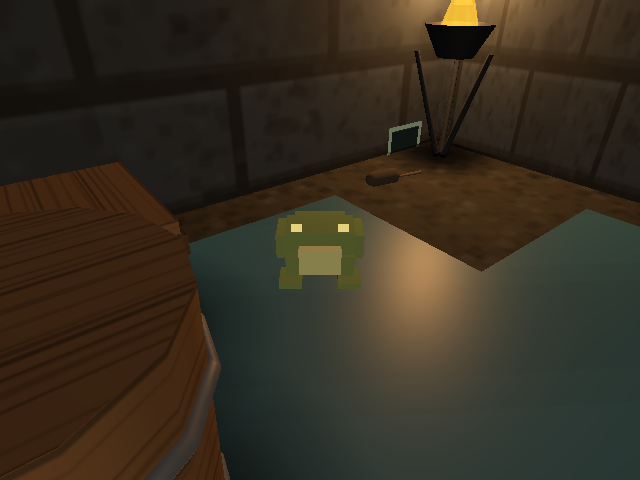
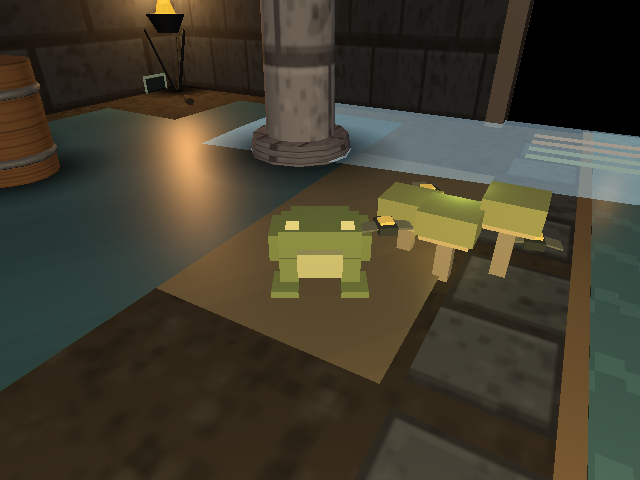
Set frogs on connected silt-bank habitat

diff --git a/src/game/mobs/croakerHabitat.ts b/src/game/mobs/croakerHabitat.ts
@@ -2,7 +2,7 @@ import type { Room } from "../dungeon/types";
 import { insideRoom, roomSegmentClear } from "../dungeon/footprint";
 import { placementsFor } from "../rooms/placements";
 import { PROP_SPECS } from "../props/specs";
-import { watercourseBlocks, WATER_DRAIN_SECONDS } from "../worldbuilding/watercourse";
+import { WATER_DRAIN_SECONDS } from "../worldbuilding/watercourse";
 import type { Spot } from "./ambient";
 import { terrainFor } from "../rooms/terrainPattern";
 
@@ -17,13 +17,14 @@ export function croakerMigration(openedAt: number | null, now: number): number {
  * existing damp wall refuge when it drains. A blocked route keeps the original
  * habitat; a creature never jumps through furniture to satisfy an art pattern. */
 export function croakerHabitats(room: Room, spots: Spot[], seed: number): CroakerHabitat[] {
-  const channels = watercourseBlocks(room);
   const obstacles = placementsFor(room, seed).filter(p => PROP_SPECS[p.kind].solid);
   const used: Spot[] = [];
   const sheltered: Spot[] = [];
   const terrain = terrainFor(room);
+  const banks = terrain.deposits.filter(tile => tile.bank && !tile.slope?.some(slope => Math.abs(slope) > 1e-6))
+    .map(tile => ({ x: tile.position[0], z: tile.position[2] }));
   const beds = ["flooded", "mossy", "fungal"].includes(terrain.biome) ? terrain.deposits
-    .filter(tile => !tile.slope?.some(slope => Math.abs(slope) > 1e-6))
+    .filter(tile => !tile.bank && !tile.slope?.some(slope => Math.abs(slope) > 1e-6))
     .map(tile => ({ x: tile.position[0], z: tile.position[2] })) : [];
   return spots.map(original => {
     const safeBeds = beds.filter(bed => insideRoom(room, bed.x, bed.z, 0.45) &&
@@ -33,21 +34,14 @@ export function croakerHabitats(room: Room, spots: Spot[], seed: number): Croake
     const refuge = safeBeds[0] ?? original;
     sheltered.push(refuge);
     const candidates: Spot[] = [];
-    for (const channel of channels) {
-      const horizontal = channel.size[0] > channel.size[2];
-      for (const sign of [-1, 1]) {
-        const length = horizontal ? channel.size[0] : channel.size[2];
-        const center = horizontal ? channel.position[0] : channel.position[2];
-        const along = Math.max(center - length / 2 + 1, Math.min(center + length / 2 - 1, horizontal ? refuge.x : refuge.z));
-        const wet = horizontal ? { x: along, z: sign * 0.65 } : { x: sign * 0.65, z: along };
-        if (!insideRoom(room, wet.x, wet.z, 0.45) || !roomSegmentClear(room, wet.x, wet.z, refuge.x, refuge.z, 0.45)) continue;
-        const dx = refuge.x - wet.x, dz = refuge.z - wet.z, len2 = dx * dx + dz * dz;
-        if (obstacles.some(p => {
-          const t = len2 ? Math.max(0, Math.min(1, ((p.x - wet.x) * dx + (p.z - wet.z) * dz) / len2)) : 0;
-          return Math.hypot(p.x - wet.x - t * dx, p.z - wet.z - t * dz) < PROP_SPECS[p.kind].radius * (p.scale ?? 1) + 0.45;
-        }) || used.some(p => Math.hypot(p.x - wet.x, p.z - wet.z) < 0.8)) continue;
-        candidates.push(wet);
-      }
+    for (const wet of banks) {
+      if (!insideRoom(room, wet.x, wet.z, 0.45) || !roomSegmentClear(room, wet.x, wet.z, refuge.x, refuge.z, 0.45)) continue;
+      const dx = refuge.x - wet.x, dz = refuge.z - wet.z, len2 = dx * dx + dz * dz;
+      if (obstacles.some(p => {
+        const t = len2 ? Math.max(0, Math.min(1, ((p.x - wet.x) * dx + (p.z - wet.z) * dz) / len2)) : 0;
+        return Math.hypot(p.x - wet.x - t * dx, p.z - wet.z - t * dz) < PROP_SPECS[p.kind].radius * (p.scale ?? 1) + 0.45;
+      }) || used.some(p => Math.hypot(p.x - wet.x, p.z - wet.z) < 0.8)) continue;
+      candidates.push(wet);
     }
     candidates.sort((a, b) => Math.hypot(a.x - refuge.x, a.z - refuge.z) - Math.hypot(b.x - refuge.x, b.z - refuge.z));
     const wet = candidates[0] ?? refuge;

diff --git a/src/editor/WorldAtlas.tsx b/src/editor/WorldAtlas.tsx
@@ -422,6 +422,9 @@ export function WorldAtlas() {
         {lighting && <p style={small}>{lamps.length} hanging passage {lamps.length === 1 ? "lamp" : "lamps"} · gold diamonds show fixtures; spacing follows passage length. Arrows follow the current; dashed arrows remain as marks after drainage.</p>}
         <GallerySection room={room} probe={{ x: probeX, z: probeZ }} onProbe={moveProbe} />
         {ecology && <p style={small}>Green dots: toads · dotted paths: clear retreat routes · tan brackets: rat shelters · pale squares: bellcaps · violet diamonds: shardbacks · orange lizards: kiln newts · pale hexagons: brine crabs · green split shells: copperbacks · amber wicks: wicklings · dashed rings: raised-lantern range; walls still block exposure. This preview changes the diagram only.</p>}
+        {ecology && habitats.some(home => home.followsChannel) && <p style={small}>
+          {habitats.filter(home => home.followsChannel).length} toad{habitats.filter(home => home.followsChannel).length === 1 ? "" : "s"} feed on the visible silt banks and retreat to separate damp refuges when the channel drains.
+        </p>}
         {colonies.length > 0 && <p style={small}>{colonies.length} bellcap {colonies.length === 1 ? "colony" : "colonies"} on this channel bank. {dormant
           ? "Draining collapses the caps and prevents further spore bursts."
           : `Lower the lantern one band or retreat during the ${BELLCAP_WARNING}-second warning. Bursts carry sound through the room graph; recovery lasts ${BELLCAP_COOLDOWN} seconds.`}</p>}

diff --git a/src/game/mobs/ambient.ts b/src/game/mobs/ambient.ts
@@ -95,7 +95,11 @@ export function roostFor(room: Room, seed: number): Spot | null {
  */
 export function croakersFor(room: Room, seed: number): Spot[] {
   if (!RAT_KINDS.has(room.kind)) return [];
-  if (!livesHere("croaker", room, seed)) return [];
+  // Rootwater's moss becomes a wet feeding ground where the actual
+  // watercourse cuts it. Dry moss elsewhere keeps its beetle ecology.
+  const bankColony = room.waterway && room.district === "gardens" &&
+    biomeIdFor(room.kind, room.id, seed, room) === "mossy";
+  if (!livesHere("croaker", room, seed) && !bankColony) return [];
   const rng = createRng(`${seed}:${room.id}:croakers`);
   const count = 2 + Math.floor(rng() * 3);
   const solid = placementsFor(room, seed).filter((p) => PROP_SPECS[p.kind].solid);

diff --git a/src/game/mobs/Croakers.tsx b/src/game/mobs/Croakers.tsx
@@ -157,8 +157,9 @@ export function Croakers({ room, spots, seed }: { room: Room; spots: Spot[]; see
           }}
           position={[s.x, floorHeightAt(room, s.x, s.z) + 0.045, s.z]}
           rotation={[0, Math.atan2(-s.x, -s.z), 0]}
+          scale={1.16}
         >
-          <mesh geometry={geo("croaker")} material={mat({ color: "#70894d", roughness: 1 })} />
+          <mesh geometry={geo("croaker")} material={mat({ color: "#849b58", roughness: 1 })} />
           <group ref={el => { throats.current[i] = el; }} position={[0, .16, .245]}>
             <mesh scale={[.23, .14, .09]} geometry={geo("box", 1, 1, 1)} material={mat({ color: "#c5ce91", roughness: 1 })} />
           </group>

diff --git a/docs/PERFORMANCE.md b/docs/PERFORMANCE.md
@@ -26,13 +26,13 @@ broad slowdown.
 
 The recorded pre-strata baseline across the fixed 78-room corpus is 78 draw
 calls, 7,208 visible triangles, 87 live geometries and 10 live textures. The
-latest run peaks at 79 calls, 7,248 triangles, 87 geometries and 10 textures.
+latest run peaks at 79 calls, 7,248 triangles, 93 geometries and 10 textures.
 The previous sweeps reached 79 calls and 7,352 triangles, or 85 calls and
 7,400 triangles, as the active Warden shifted through sampled rooms; all are
 within budget. Geological and district border marks share one batch, and the
 new channel banks use terrain's existing deposit instance draw with per-cell
 color. Threshold approach sounds add no scene geometry or held audio voice.
-Ten repeated room laps showed no geometry growth, and the 574-frame sprint
+Ten repeated room laps showed no geometry growth, and the 613-frame sprint
 sample retained no heap after
 collection. The conservative 85-call observation leaves 11 calls of
 hard-budget headroom. New ecology should keep using fixed
@@ -59,6 +59,7 @@ comparable across that environment.
 | District border handovers | Stable | Four shallow pigment cuts below each real named lintel join the same strata instance batch. Native review shows both districts from inside a border room at 26 calls and 1,830 triangles; the full corpus peaks at 85 calls and 7,400 triangles. |
 | Threshold approach sounds | Stable | One room-level watcher uses short procedural cues only at real district or material boundaries. The 78-room sweep peaks at 79 calls, 7,352 triangles, 87 geometries and 10 textures; ten laps show no geometry growth, a 612-frame sprint retains no heap, and 20,000 held-audio updates retain one voice with zero bytes per update. |
 | Watercourse silt banks | Stable | Existing terrain deposit instances carry district sediment colors alongside real waterway strips through shaped chambers and passage arms. The isolated 78-room sweep peaks at 79 calls, 7,248 triangles, 87 geometries and 10 textures; ten repeated laps add no geometry, the 574-frame sprint retains no heap, and 20,000 held-audio updates retain one voice with zero bytes per update. |
+| Silt-bank frogs | Stable | Rootwater moss gains frogs only on real watercourse banks, and migrating frogs use rendered bank cells with clear refuge routes. Scaling the shared body changes no mesh count. The latest fixed sweep peaks at 79 calls, 7,248 triangles, 93 live geometries and 10 textures; ten revisits add none, a 613-frame sprint retains no heap, and 20,000 held-audio updates retain one voice with zero bytes per update. The geometry peak varies with sampled live scene state, so keep watching its 112 budget. |
 | Salt-pan biome | Stable | The eleventh terrain and crown variant reuses the two terrain and three architecture batches. Twelve paused-clock flakes share one extra instance draw; a furnished circular fixture uses 51 calls and the corpus peak remains 78. |
 | Salt-pan ecology | Stable | Up to four brine crabs share two instance batches. The 360-floor audit finds 513 legal homes and 35 real cracked-wall retreats; the corpus peak remains 78 calls and 7,256 triangles. |
 | Paired gallery transepts | Stable | Raised wings, ramps and terminal stations reuse the terrain surface and three architecture batches. District answers reuse one lamp and the three bounded reflection taps, with no looping voice or added node. The 360-floor audit finds 853 stations, 87 paired rooms and 21 secret-host transepts; the corpus peak remains 78 calls. |

diff --git a/docs/WORLD_EXPANSION.md b/docs/WORLD_EXPANSION.md
@@ -1297,3 +1297,19 @@ The isolated 78-room performance sweep peaks at 79 calls, 7,248 triangles,
 87 geometries and 10 textures; ten revisited rooms add no geometry, a
 574-frame sprint retains 0.00 MB after collection, and 20,000 held-audio
 updates retain one voice with zero bytes per update.
+
+Toads now use those banks as real feeding ground. Their former fixed offset
+from a channel could leave them hovering beside the newly drawn silt; each
+feeding point now lands on a rendered bank cell with a clear route back to an
+independent damp refuge. Rootwater moss rooms gain frogs only where the
+generated watercourse actually passes, while ordinary dry moss retains its
+beetle ecology. The frog's block-cut body is slightly broader and lighter in
+the room's practical light. Across the 360-floor audit, 818 toads have clear
+channel-to-refuge routes, including 62 new moss-bank feeders. Native browser
+checks confirm gathering, drainage retreat, pause, revisit and dry silence;
+the creature render sweep confirms all 17 types contribute visible pixels,
+with the frog changing 7,735 pixels at standing eye height.
+The latest isolated 78-room sweep peaks at 79 draw calls, 7,248 triangles,
+93 geometries and 10 textures; ten repeated room laps add no geometry, a
+613-frame sprint retains 0.00 MB after collection, and 20,000 held-audio
+updates retain one voice with zero bytes per update.

diff --git a/docs/WORLD_STYLE.md b/docs/WORLD_STYLE.md
@@ -265,6 +265,11 @@ front toes, pale throat and amber eyes; only the throat inflates when calling.
 Their wall habitat candidates follow the actual room footprint. Refuges and
 migration paths use the same furniture seed as the rendered room and clear the
 whole body. Noise still makes them dive, and draining still sends them to cover.
+Where a real watercourse crosses Rootwater moss, toads also feed on its visible
+silt banks; dry moss elsewhere remains beetle country. Feeding points must be
+actual bank cells, with a clear retreat to a separate damp bed or wall refuge.
+Keep the body broad and light enough to recognize at standing eye height,
+without adding a creature light or a smooth imported skin.
 
 `npm run test:creatures` checks all seventeen creature types in generated rooms
 using native Chrome rendering. It compares frames with and without creature
